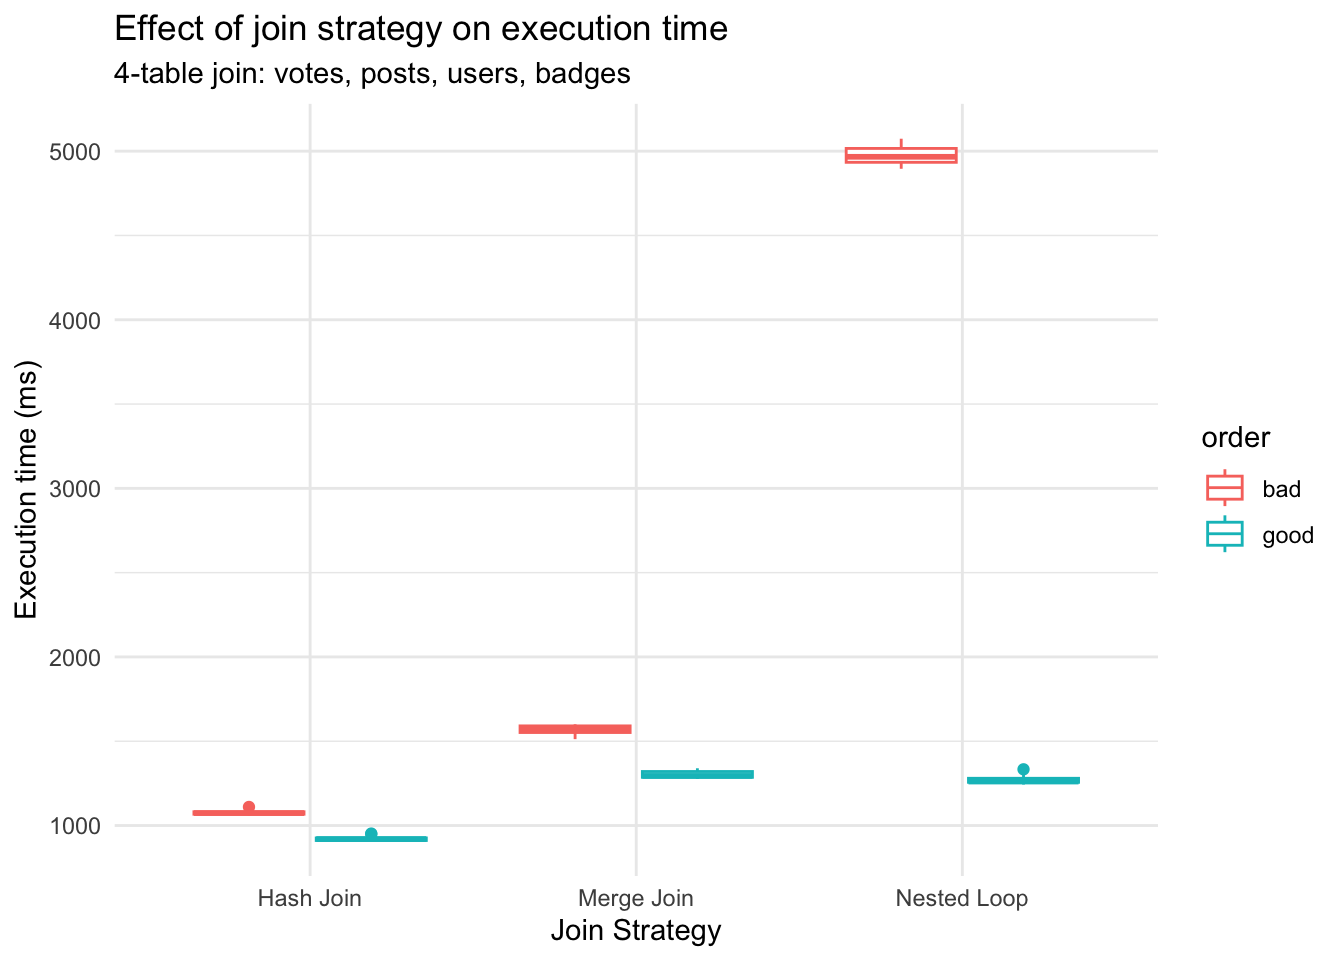
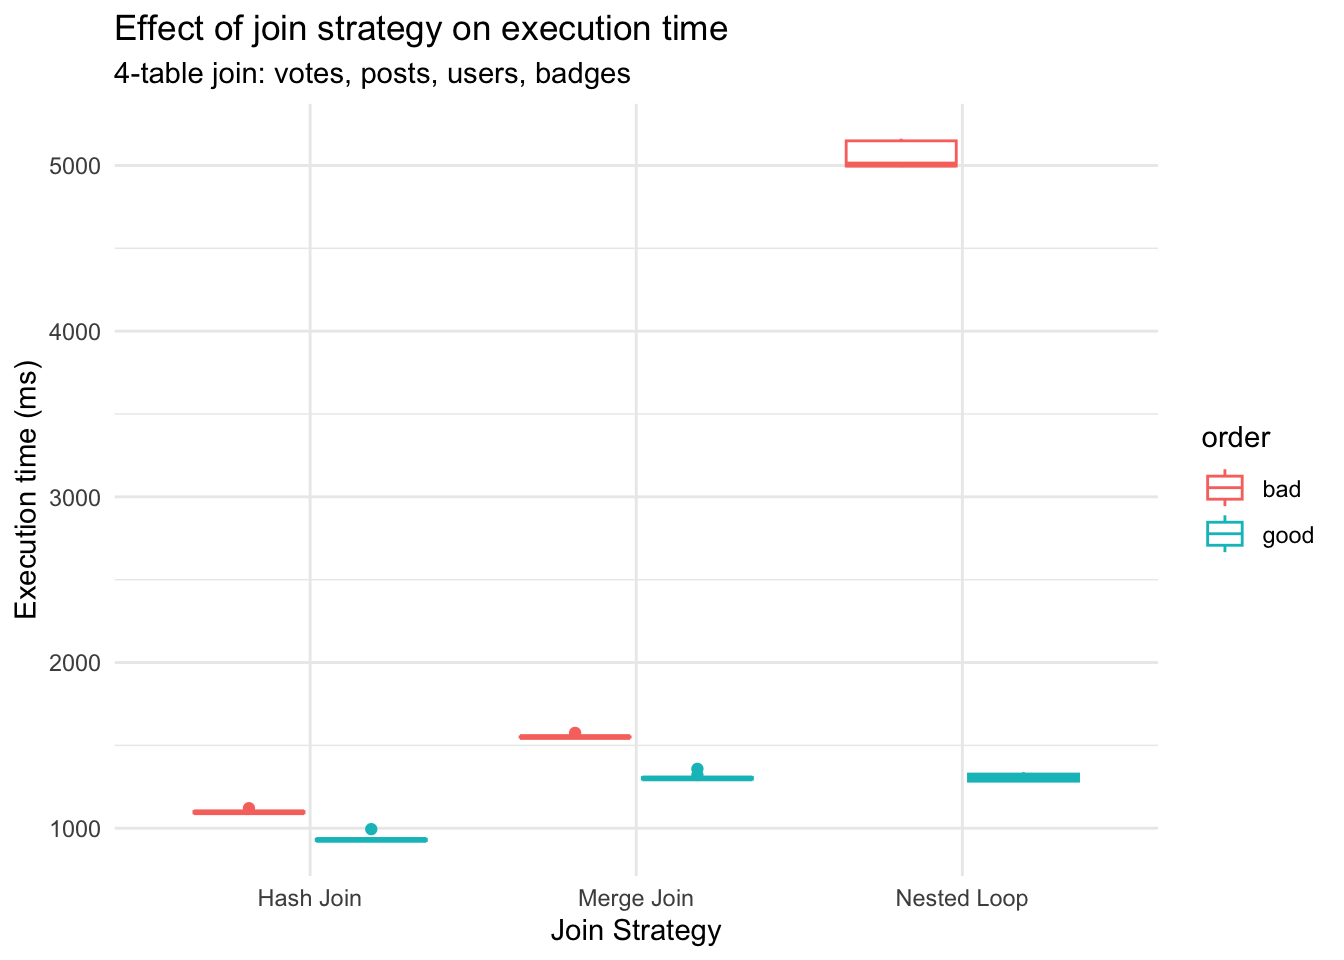
commit

diff --git a/_site/join_optimization.html b/_site/join_optimization.html
@@ -156,10 +156,10 @@ window.Quarto = {
           <div class="collapse navbar-collapse" id="navbarCollapse">
             <ul class="navbar-nav navbar-nav-scroll me-auto">
   <li class="nav-item dropdown ">
-    <a class="nav-link dropdown-toggle" href="#" id="nav-menu-informational-resources" role="link" data-bs-toggle="dropdown" aria-expanded="false">
- <span class="menu-text">Informational Resources</span>
+    <a class="nav-link dropdown-toggle" href="#" id="nav-menu-theoretical-foundations" role="link" data-bs-toggle="dropdown" aria-expanded="false">
+ <span class="menu-text">Theoretical Foundations</span>
     </a>
-    <ul class="dropdown-menu" aria-labelledby="nav-menu-informational-resources">    
+    <ul class="dropdown-menu" aria-labelledby="nav-menu-theoretical-foundations">    
         <li>
     <a class="dropdown-item" href="./SQL_Scrolly_reformatted.html">
  <span class="dropdown-text">SQL:Indexing and B-Trees</span></a>
@@ -212,10 +212,21 @@ window.Quarto = {
     <a class="nav-link" href="./about.html"> 
 <span class="menu-text">About</span></a>
   </li>  
-  <li class="nav-item">
-    <a class="nav-link" href="./references.html"> 
-<span class="menu-text">References</span></a>
+  <li class="nav-item dropdown ">
+    <a class="nav-link dropdown-toggle" href="#" id="nav-menu-references" role="link" data-bs-toggle="dropdown" aria-expanded="false">
+ <span class="menu-text">References</span>
+    </a>
+    <ul class="dropdown-menu" aria-labelledby="nav-menu-references">    
+        <li>
+    <a class="dropdown-item" href="./references.html">
+ <span class="dropdown-text">Informational Sources</span></a>
   </li>  
+        <li>
+    <a class="dropdown-item" href="./packages.html">
+ <span class="dropdown-text">R Packages</span></a>
+  </li>  
+    </ul>
+  </li>
 </ul>
           </div> <!-- /navcollapse -->
             <div class="quarto-navbar-tools">
@@ -280,7 +291,7 @@ window.Quarto = {
 <p>When you write a multi-table <code>JOIN</code>, you specify which tables connect and on what columns — but you do not specify how the database should physically combine them, nor in what order. Normally, the query optimizer uses the distribution of data within the tables to estimate the size of intermediate results and create a query plan.</p>
 <p>This simulation isolates and measures the impacts of two main optimization decisions:</p>
 <ul>
-<li><strong>Join strategy</strong> — the physical algorithm used to match rows between two tables. PostgreSQL has three: <strong>Nested Loop</strong>, <strong>Hash Join</strong>, and <strong>Merge Join</strong>. For more information on these strategies, see the <a href="./joins.html">Joins page</a>.</li>
+<li><strong>Join strategy</strong> — the physical algorithm used to match rows between two tables. PostgreSQL has three: <strong>Nested Loop</strong>, <strong>Hash Join</strong>, and <strong>Merge Join</strong>. For more information on these strategies, see the <a href="./joins.html">Joins page in the Theoretical Foundations section of the site</a>.</li>
 <li><strong>Join order</strong> — the sequence in which tables are brought into the join. Starting from heavily-filtered small tables keeps intermediate results tiny; starting from large unfiltered tables forces the engine to carry millions of rows through every step.</li>
 </ul>
 <p>Normally the planner picks both automatically using table statistics and cost estimates.To <em>see</em> the effect of each choice, we override the planner with session-level <code>SET</code> commands, force one strategy and one order at a time, and time the result. This is mostly a teaching device — in production you almost always let the planner decide.</p>
@@ -528,34 +539,34 @@ window.Quarto = {
 <span id="cb15-8"><a href="#cb15-8" aria-hidden="true" tabindex="-1"></a>auto_plan  <span class="co"># print the plan for the reader</span></span></code></pre></div><button title="Copy to Clipboard" class="code-copy-button"><i class="bi"></i></button></div>
 </details>
 <div class="cell-output cell-output-stdout">
-<pre><code> [1] "Aggregate  (cost=2904.66..2904.67 rows=1 width=8) (actual time=1330.417..1330.418 rows=1 loops=1)"                                                
- [2] "  -&gt;  Nested Loop  (cost=805.26..2898.52 rows=2457 width=0) (actual time=12.625..1084.898 rows=5854758 loops=1)"                                  
+<pre><code> [1] "Aggregate  (cost=2904.66..2904.67 rows=1 width=8) (actual time=1292.148..1292.149 rows=1 loops=1)"                                                
+ [2] "  -&gt;  Nested Loop  (cost=805.26..2898.52 rows=2457 width=0) (actual time=14.915..1054.070 rows=5854758 loops=1)"                                  
  [3] "        Join Filter: (u.id = b.userid)"                                                                                                           
- [4] "        -&gt;  Nested Loop  (cost=804.97..2858.88 rows=71 width=8) (actual time=12.605..64.835 rows=45869 loops=1)"                                  
- [5] "              -&gt;  Hash Join  (cost=804.55..2773.90 rows=25 width=12) (actual time=12.548..23.868 rows=2287 loops=1)"                              
+ [4] "        -&gt;  Nested Loop  (cost=804.97..2858.88 rows=71 width=8) (actual time=14.880..62.453 rows=45869 loops=1)"                                  
+ [5] "              -&gt;  Hash Join  (cost=804.55..2773.90 rows=25 width=12) (actual time=14.843..25.082 rows=2287 loops=1)"                              
  [6] "                    Hash Cond: (p.owneruserid = u.id)"                                                                                            
- [7] "                    -&gt;  Seq Scan on posts p  (cost=0.00..1959.70 rows=3676 width=8) (actual time=0.016..10.144 rows=3552 loops=1)"                
+ [7] "                    -&gt;  Seq Scan on posts p  (cost=0.00..1959.70 rows=3676 width=8) (actual time=0.023..9.285 rows=3552 loops=1)"                 
  [8] "                          Filter: (score &gt; 10)"                                                                                                   
  [9] "                          Rows Removed by Filter: 88424"                                                                                          
-[10] "                    -&gt;  Hash  (cost=801.06..801.06 rows=279 width=4) (actual time=12.518..12.519 rows=305 loops=1)"                               
+[10] "                    -&gt;  Hash  (cost=801.06..801.06 rows=279 width=4) (actual time=14.798..14.798 rows=305 loops=1)"                               
 [11] "                          Buckets: 1024  Batches: 1  Memory Usage: 19kB"                                                                          
-[12] "                          -&gt;  Seq Scan on users u  (cost=0.00..801.06 rows=279 width=4) (actual time=0.008..12.375 rows=305 loops=1)"             
+[12] "                          -&gt;  Seq Scan on users u  (cost=0.00..801.06 rows=279 width=4) (actual time=0.014..14.600 rows=305 loops=1)"             
 [13] "                                Filter: (reputation &gt; 1000)"                                                                                      
 [14] "                                Rows Removed by Filter: 40020"                                                                                    
-[15] "              -&gt;  Index Scan using idx_votes_postid on votes v  (cost=0.42..3.34 rows=6 width=4) (actual time=0.003..0.016 rows=20 loops=2287)"   
+[15] "              -&gt;  Index Scan using idx_votes_postid on votes v  (cost=0.42..3.34 rows=6 width=4) (actual time=0.003..0.015 rows=20 loops=2287)"   
 [16] "                    Index Cond: (postid = p.id)"                                                                                                  
 [17] "                    Filter: (votetypeid = 2)"                                                                                                     
 [18] "                    Rows Removed by Filter: 3"                                                                                                    
-[19] "        -&gt;  Index Only Scan using idx_badges_userid on badges b  (cost=0.29..0.51 rows=4 width=4) (actual time=0.002..0.013 rows=128 loops=45869)"
+[19] "        -&gt;  Index Only Scan using idx_badges_userid on badges b  (cost=0.29..0.51 rows=4 width=4) (actual time=0.002..0.012 rows=128 loops=45869)"
 [20] "              Index Cond: (userid = p.owneruserid)"                                                                                               
 [21] "              Heap Fetches: 0"                                                                                                                    
-[22] "Planning Time: 2.041 ms"                                                                                                                          
-[23] "Execution Time: 1330.503 ms"                                                                                                                      </code></pre>
+[22] "Planning Time: 2.739 ms"                                                                                                                          
+[23] "Execution Time: 1292.238 ms"                                                                                                                      </code></pre>
 </div>
 </div>
 <p>Following the rows from the bottom up: PostgreSQL begins with two filtered scans. It scans <code>posts</code> and keeps only the 3,552 rows with <code>score &gt; 10</code> (line 7, discarding 88,424), and scans <code>users</code> to keep the 305 with <code>reputation &gt; 1000</code> (line 12), building a hash table on those users (line 10). Those two filtered inputs meet at the <code>hash join</code> (line 5), which matches <code>posts</code> to their <code>owners</code> on <code>owneruserid</code> and emits 2,287 rows. From there the rows flow upward through two <code>nested loops</code>: the first probes <code>votes</code> by index once per post (line 15), growing the result to 45,869 rows, and the second probes <code>badges</code> by index once per user (line 19), ballooning it to 5,854,758. Those rows finally arrive at the <code>Aggregate</code> (line 1), which collapses them into a single count.</p>
 <p>Notice that we wrote the bad order in the <code>FROM</code> clause, but with reordering left enabled (<code>join_collapse_limit</code> at its default), the planner ignored our written order entirely. It led with <code>posts</code> and <code>users</code> — the two tables carrying the <code>WHERE</code> filters, and therefore the most selective — and pushed the unfiltered fan-out to the very end. Left to its own devices, the planner reconstructs something close to the good order on its own.</p>
-<p>Each node reports <code>actual time=startup..total</code>, where the total is cumulative and measured per loop. Reading these upward shows the cost concentrating in one place: everything through the hash join finishes early, the first nested loop shortly after, and then the top nested loop dominates the runtime. That final node is the whole query. It turns 45,869 input rows into 5,854,758 output rows because each user owns roughly 128 badges (<code>rows=128 loops=45869</code> on line 19), and pushing those 5.85 million rows through the join filter is where the bulk of the 1331 ms runtime lives.</p>
+<p>Each node reports <code>actual time=startup..total</code>, where the total is cumulative and measured per loop. Reading these upward shows the cost concentrating in one place: everything through the hash join finishes early, the first nested loop shortly after, and then the top nested loop dominates the runtime. That final node is the whole query. It turns 45,869 input rows into 5,854,758 output rows because each user owns roughly 128 badges (<code>rows=128 loops=45869</code> on line 19), and pushing those 5.85 million rows through the join filter is where the bulk of the 1292 ms runtime lives.</p>
 </section>
 <section id="manually-defined-inefficient-join" class="level4">
 <h4 class="anchored" data-anchor-id="manually-defined-inefficient-join">Manually Defined, Inefficient Join</h4>
@@ -584,30 +595,30 @@ window.Quarto = {
 <span id="cb18-8"><a href="#cb18-8" aria-hidden="true" tabindex="-1"></a>forced_plan  <span class="co"># print the plan for the reader</span></span></code></pre></div><button title="Copy to Clipboard" class="code-copy-button"><i class="bi"></i></button></div>
 </details>
 <div class="cell-output cell-output-stdout">
-<pre><code> [1] "Aggregate  (cost=4672.77..4672.78 rows=1 width=8) (actual time=5137.780..5137.781 rows=1 loops=1)"                                                         
- [2] "  -&gt;  Nested Loop  (cost=1.01..4666.63 rows=2457 width=0) (actual time=0.034..4854.670 rows=5854758 loops=1)"                                              
- [3] "        -&gt;  Nested Loop  (cost=0.58..1719.61 rows=867 width=4) (actual time=0.026..1215.462 rows=292650 loops=1)"                                          
- [4] "              -&gt;  Nested Loop  (cost=0.29..1449.36 rows=552 width=8) (actual time=0.019..6.775 rows=12371 loops=1)"                                        
- [5] "                    -&gt;  Seq Scan on users u  (cost=0.00..801.06 rows=279 width=4) (actual time=0.007..3.684 rows=305 loops=1)"                             
+<pre><code> [1] "Aggregate  (cost=4672.77..4672.78 rows=1 width=8) (actual time=5008.178..5008.179 rows=1 loops=1)"                                                         
+ [2] "  -&gt;  Nested Loop  (cost=1.01..4666.63 rows=2457 width=0) (actual time=0.036..4732.890 rows=5854758 loops=1)"                                              
+ [3] "        -&gt;  Nested Loop  (cost=0.58..1719.61 rows=867 width=4) (actual time=0.028..1194.525 rows=292650 loops=1)"                                          
+ [4] "              -&gt;  Nested Loop  (cost=0.29..1449.36 rows=552 width=8) (actual time=0.020..6.045 rows=12371 loops=1)"                                        
+ [5] "                    -&gt;  Seq Scan on users u  (cost=0.00..801.06 rows=279 width=4) (actual time=0.008..3.279 rows=305 loops=1)"                             
  [6] "                          Filter: (reputation &gt; 1000)"                                                                                                     
  [7] "                          Rows Removed by Filter: 40020"                                                                                                   
- [8] "                    -&gt;  Index Only Scan using idx_badges_userid on badges b  (cost=0.29..2.28 rows=4 width=4) (actual time=0.003..0.007 rows=41 loops=305)"
+ [8] "                    -&gt;  Index Only Scan using idx_badges_userid on badges b  (cost=0.29..2.28 rows=4 width=4) (actual time=0.002..0.006 rows=41 loops=305)"
  [9] "                          Index Cond: (userid = u.id)"                                                                                                     
 [10] "                          Heap Fetches: 0"                                                                                                                 
-[11] "              -&gt;  Index Scan using idx_posts_owneruserid on posts p  (cost=0.29..0.48 rows=1 width=8) (actual time=0.009..0.096 rows=24 loops=12371)"      
+[11] "              -&gt;  Index Scan using idx_posts_owneruserid on posts p  (cost=0.29..0.48 rows=1 width=8) (actual time=0.009..0.094 rows=24 loops=12371)"      
 [12] "                    Index Cond: (owneruserid = b.userid)"                                                                                                  
 [13] "                    Filter: (score &gt; 10)"                                                                                                                  
 [14] "                    Rows Removed by Filter: 246"                                                                                                           
-[15] "        -&gt;  Index Scan using idx_votes_postid on votes v  (cost=0.42..3.34 rows=6 width=4) (actual time=0.003..0.011 rows=20 loops=292650)"                
+[15] "        -&gt;  Index Scan using idx_votes_postid on votes v  (cost=0.42..3.34 rows=6 width=4) (actual time=0.002..0.011 rows=20 loops=292650)"                
 [16] "              Index Cond: (postid = p.id)"                                                                                                                 
 [17] "              Filter: (votetypeid = 2)"                                                                                                                    
 [18] "              Rows Removed by Filter: 2"                                                                                                                   
 [19] "Planning Time: 0.211 ms"                                                                                                                                   
-[20] "Execution Time: 5137.824 ms"                                                                                                                               </code></pre>
+[20] "Execution Time: 5008.222 ms"                                                                                                                               </code></pre>
 </div>
 </div>
 <p>Following the rows from the bottom up: with reordering forbidden (<code>join_collapse_limit = 1</code>), the engine must honor the literal <code>FROM</code> order, so it starts where we told it to — the unfiltered tables. It scans <code>users</code>, keeping the 305 rows with <code>reputation &gt; 1000</code> (line 5), and for each one probes <code>badges</code> by index (line 8), producing 12,371 rows. That result drives a nested loop into <code>posts</code> (line 11), probed once per badge — 12,371 loops — which grows the result to 292,650 rows. Those in turn drive a nested loop into <code>votes</code> (line 15), probed 292,650 times, fanning out to 5,854,758 rows before the <code>Aggregate</code> (line 1) collapses them to a single count. Every join is a nested loop, and no hash table appears anywhere.</p>
-<p>Compare the intermediate row counts to the free plan. There, the engine led with the two filtered tables and kept early results tiny — the first join carried 2,287 rows, the next 45,869. Here, forbidden from leading with the selective filters, the engine carries 12,371 rows out of the very first join and 292,650 out of the second. The same 5.85 million rows arrive at the top in both plans, but the forced order hauls a far larger intermediate result through the back half of the tree, and pays for it one row at a time: the <code>votes</code> index scan (line 15) executes across 292,650 loops rather than the 2,287 loops of the free plan. The slowdown shows up directly in the totals — execution time rises from roughly 1331 ms to 5138 ms (line 20), a 3.9-fold penalty for a query returning the identical single number.</p>
+<p>Compare the intermediate row counts to the free plan. There, the engine led with the two filtered tables and kept early results tiny — the first join carried 2,287 rows, the next 45,869. Here, forbidden from leading with the selective filters, the engine carries 12,371 rows out of the very first join and 292,650 out of the second. The same 5.85 million rows arrive at the top in both plans, but the forced order hauls a far larger intermediate result through the back half of the tree, and pays for it one row at a time: the <code>votes</code> index scan (line 15) executes across 292,650 loops rather than the 2,287 loops of the free plan. The slowdown shows up directly in the totals — execution time rises from roughly 1292 ms to 5008 ms (line 20), a 3.9-fold penalty for a query returning the identical single number.</p>
 <p>This is the worst case the earlier boxplots only hinted at — a bad order and the most order-sensitive algorithm, combined, on a query the planner would otherwise have rescued. The top join still emits the same 5.85 million rows it always did, and the planner still expected only 2,457; what changed is that we stripped away its two best safeguards — the freedom to lead with the selective tables, and the option to use a hash join where a nested loop explodes. Left alone, it used both. Forced, it can use neither.</p>
 </section>
 </section>
@@ -926,7 +937,7 @@ window.Quarto = {
 </div>
 </div>
 <p>Reading this table. The auto-optimized rows show what the planner does when left alone (join_collapse_limit = 8 lets it reorder up to eight tables freely); the two forced labels show the plans we dictated. The first thing to notice is that the worst single q-error isn’t unique to the bad plan — the badges Index Only Scan misestimates by a factor of ~1.5 million in every plan (estimated 4 rows per user, actual 128), because that error lives in a table’s statistics and travels with it no matter where the table is joined. The leaf-level estimates are simply bad, and all three plans inherit them. What separates the plans is not the size of the individual errors but where they fall and how many rows pass through them. Trace the actual column down each plan. In the auto and good plans, the early joins stay small — the hash join emits 2,287 rows, the next nested loop 45,869 — and the catastrophic fan-out to 5.85 million only happens at the final node. In the forced bad order, the row count is already inflated much earlier: the first nested loop emits 12,371 rows, the second 292,650, and the underestimated index scans beneath them (q-errors of ~3e5 and ~9.7e5) are therefore executed across hundreds of thousands of loops rather than a few thousand. The same per-row estimation error costs far more when it sits under a node looping 292,650 times than one looping 2,287 times. This is the mechanism behind the timing differences. A bad order isn’t slow by definition — it’s slow because it forces the planner’s already-wrong estimates to be paid out over much larger intermediate results. The planner costs each plan believing the top join will emit ~2,450 rows (it emits 5.85 million in all three), but in the bad-order plan that misestimate is compounded by every node beneath it also carrying a bloated row count. With accurate leaf statistics the planner would never have chosen a nested loop at the top at all; the cascading underestimate is what makes the expensive plan look cheap.</p>
-<p>It is also important to recognize that PostgreSQL’s cardinality estimation methods are deeply flawed, and can sometimes produce catastrophic results on complex multi-table joins. Analysis of these methods goes beyond the scope of this project, but <span class="citation" data-cites="Han2021">Han et al. (2021)</span> produced a study comparing the performance of existing cardinality estimation methods, including contemporary machine-learning and statistically motivated algorithms. It is a very interesting read and explains the deeper mechanics underlying query performance on real-world benchmark datasets.</p>
+<p>It is also important to recognize that PostgreSQL’s cardinality estimation methods are deeply flawed, and can sometimes produce catastrophic results on complex multi-table joins. Analysis of these methods goes beyond the scope of this project, but <a href="./references.html"><span class="citation" data-cites="Han2021">Han et al. (2021)</span></a> produced a study comparing the performance of existing cardinality estimation methods, including contemporary machine-learning and statistically motivated algorithms. It is a very interesting read and explains the deeper mechanics underlying query performance on real-world benchmark datasets.</p>
 </section>
 <section id="summary" class="level2">
 <h2 class="anchored" data-anchor-id="summary">Summary</h2>